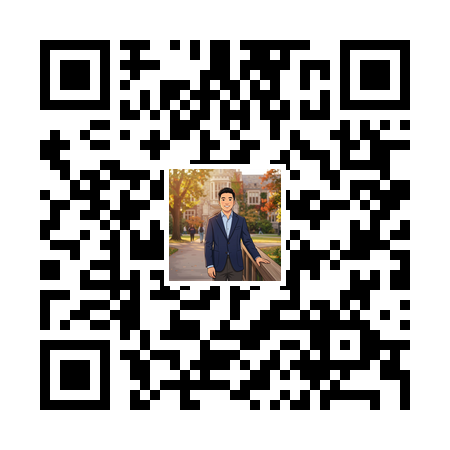
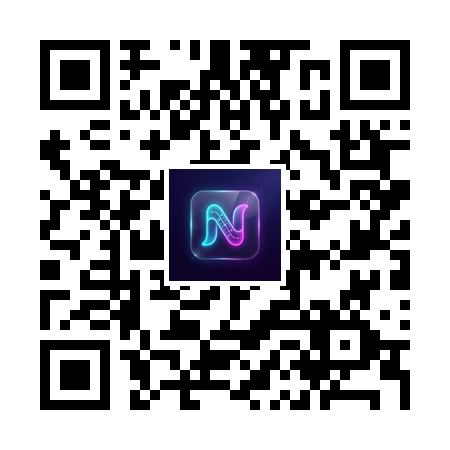
Update homepage (2026-03-12 13:15)

Changed region(s): [[0.3733, 0.3733, 0.6222, 0.6222]]

diff --git a/script.js b/script.js
@@ -35,11 +35,14 @@ document.addEventListener('DOMContentLoaded', () => {
     document.documentElement.setAttribute('data-theme', dark ? 'dark' : 'light');
     themeBtn.textContent = dark ? '☀' : '🌙';
     localStorage.setItem('theme', dark ? 'dark' : 'light');
-    // Load/remove globe based on theme
-    if (dark) {
-      loadGlobe();
-    } else {
-      removeGlobe();
+    
+    // Always ensure globe is loaded for tracking
+    loadGlobe();
+    
+    // Toggle visibility of the visitors section based on theme
+    const visitorsSection = document.getElementById('visitors');
+    if (visitorsSection) {
+      visitorsSection.style.display = dark ? 'block' : 'none';
     }
   }
 

diff --git a/generate_qr.py b/generate_qr.py
@@ -2,7 +2,7 @@ import qrcode
 from PIL import Image
 
 url = "https://jo-nan.github.io/"
-logo_path = "assets/profile.png"
+logo_path = "logo.png"
 output_path = "assets/qrcode.png"
 
 # Generate QR code
